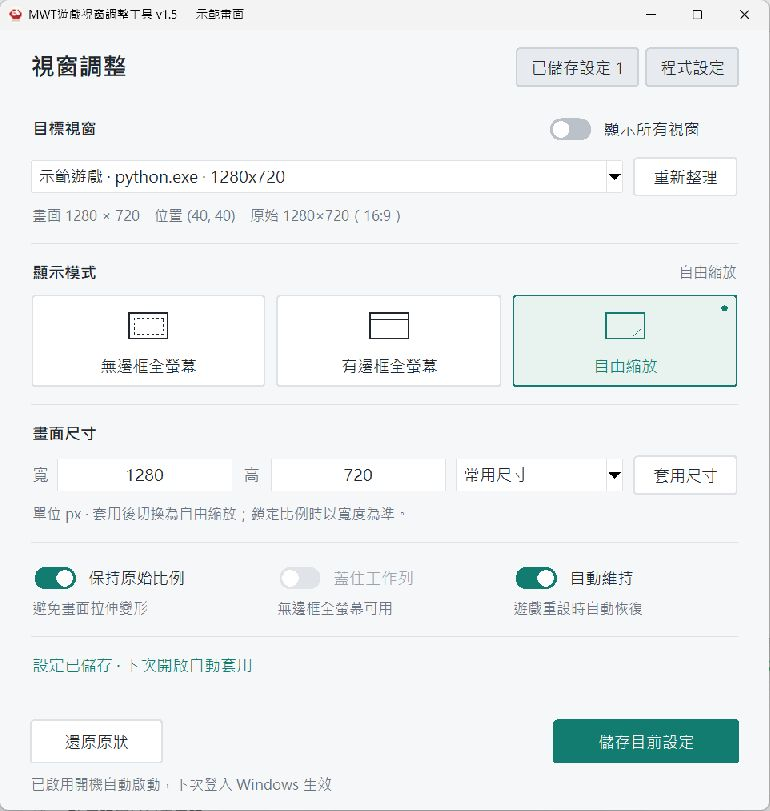
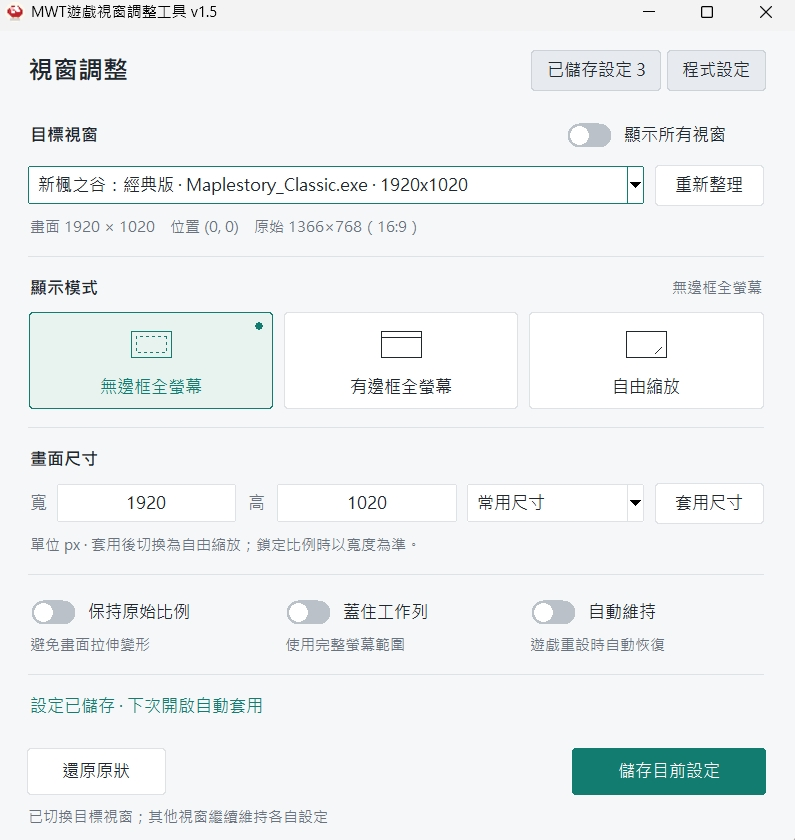
Replace the README screenshot with the current v1.5 window.

diff --git a/README.md b/README.md
@@ -12,7 +12,7 @@ Windows 上調整遊戲視窗外觀與尺寸的小工具，支援無邊框全螢
 
 ![MWT v1.5 視窗調整介面](mwt.jpg)
 
-上圖使用自建示範視窗與暫存設定，示範儲存設定、保持比例及自動維持。
+上圖為視窗調整主畫面：已選取遊戲視窗、套用無邊框全螢幕，並儲存設定以便下次開啟時自動套用。
 
 ## v1.5 更新重點
 
